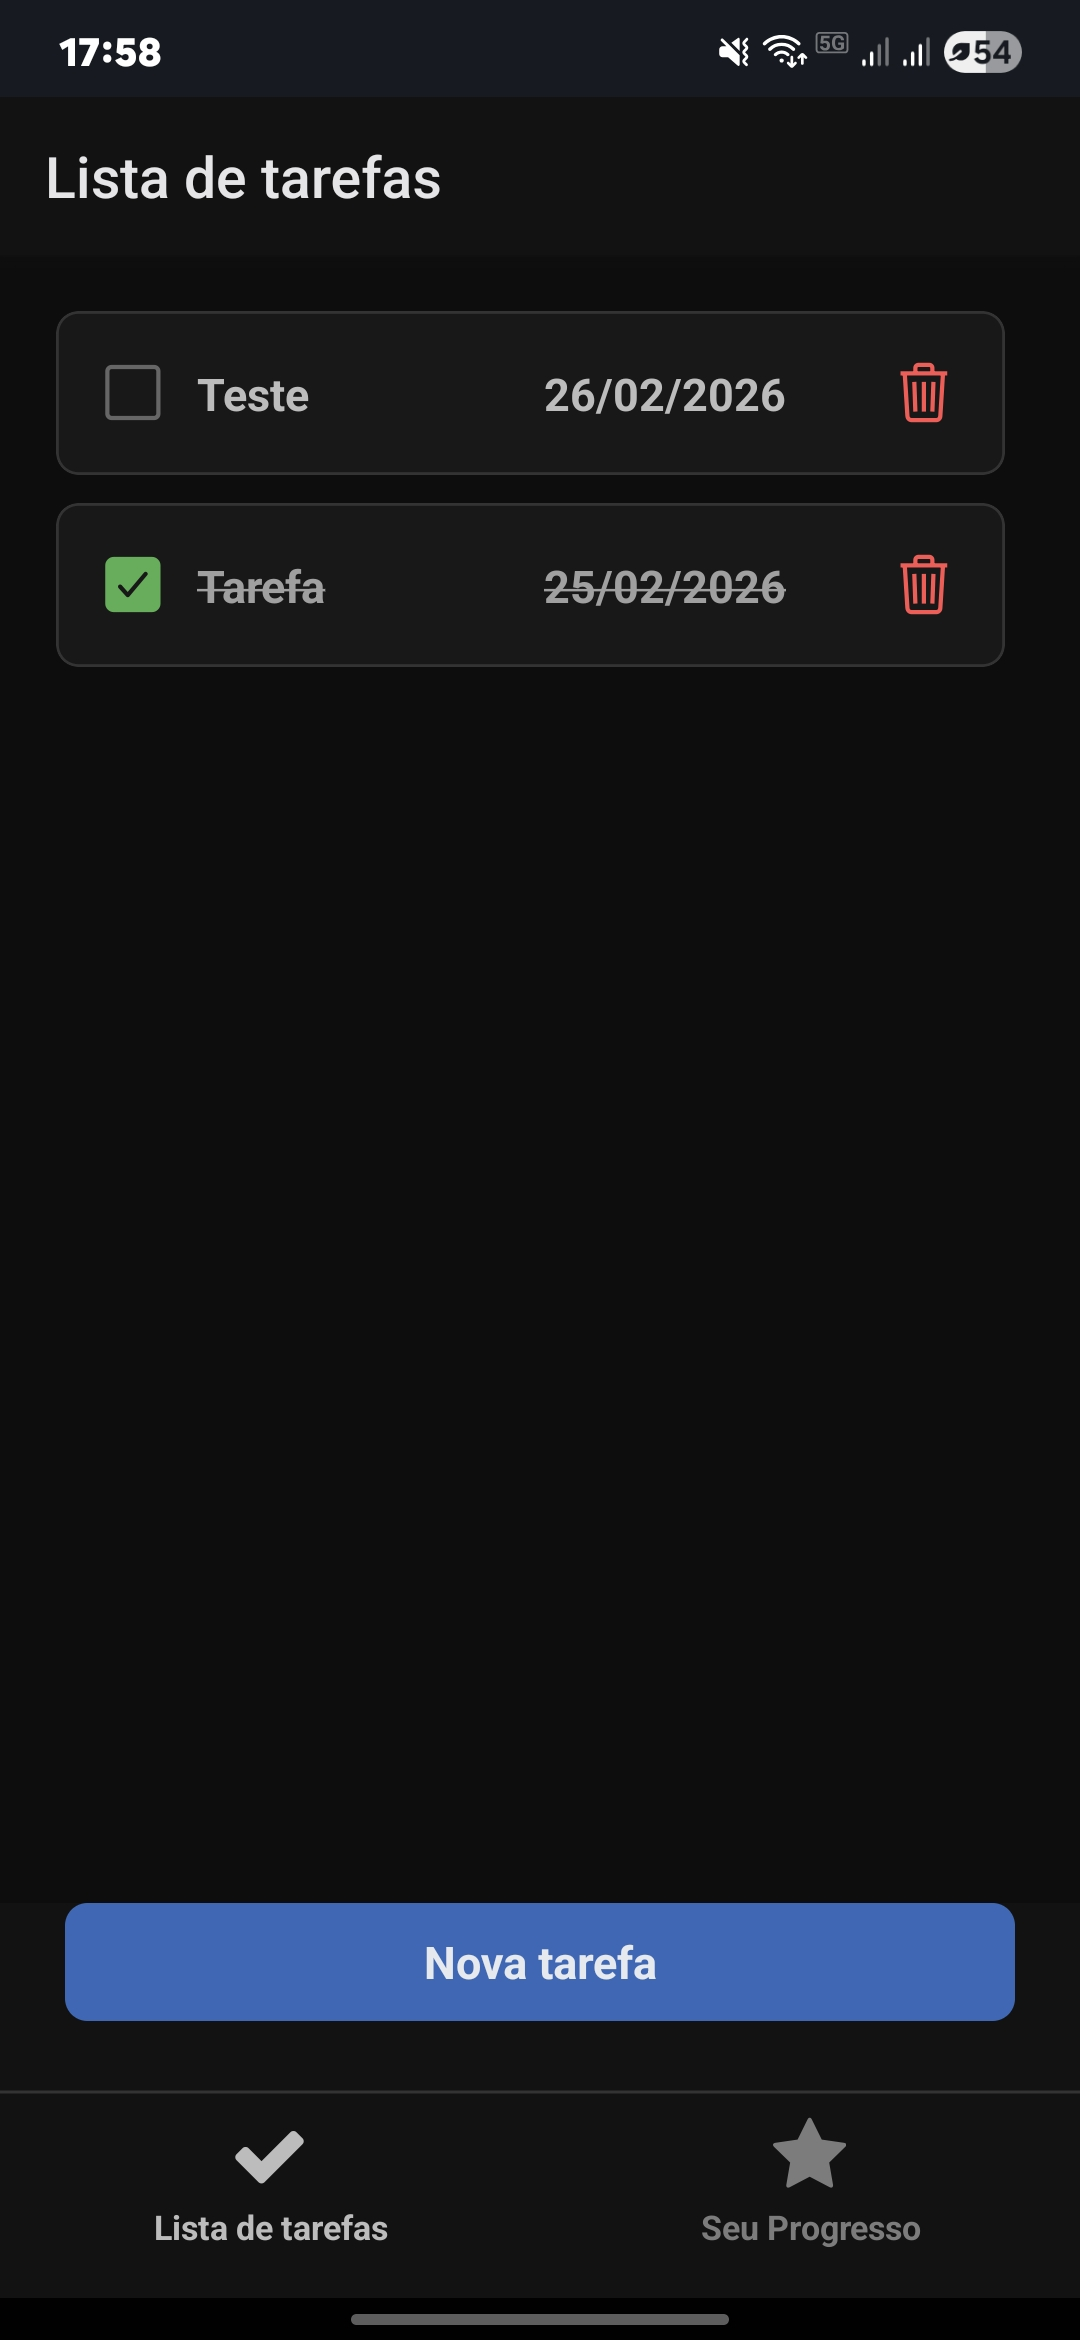
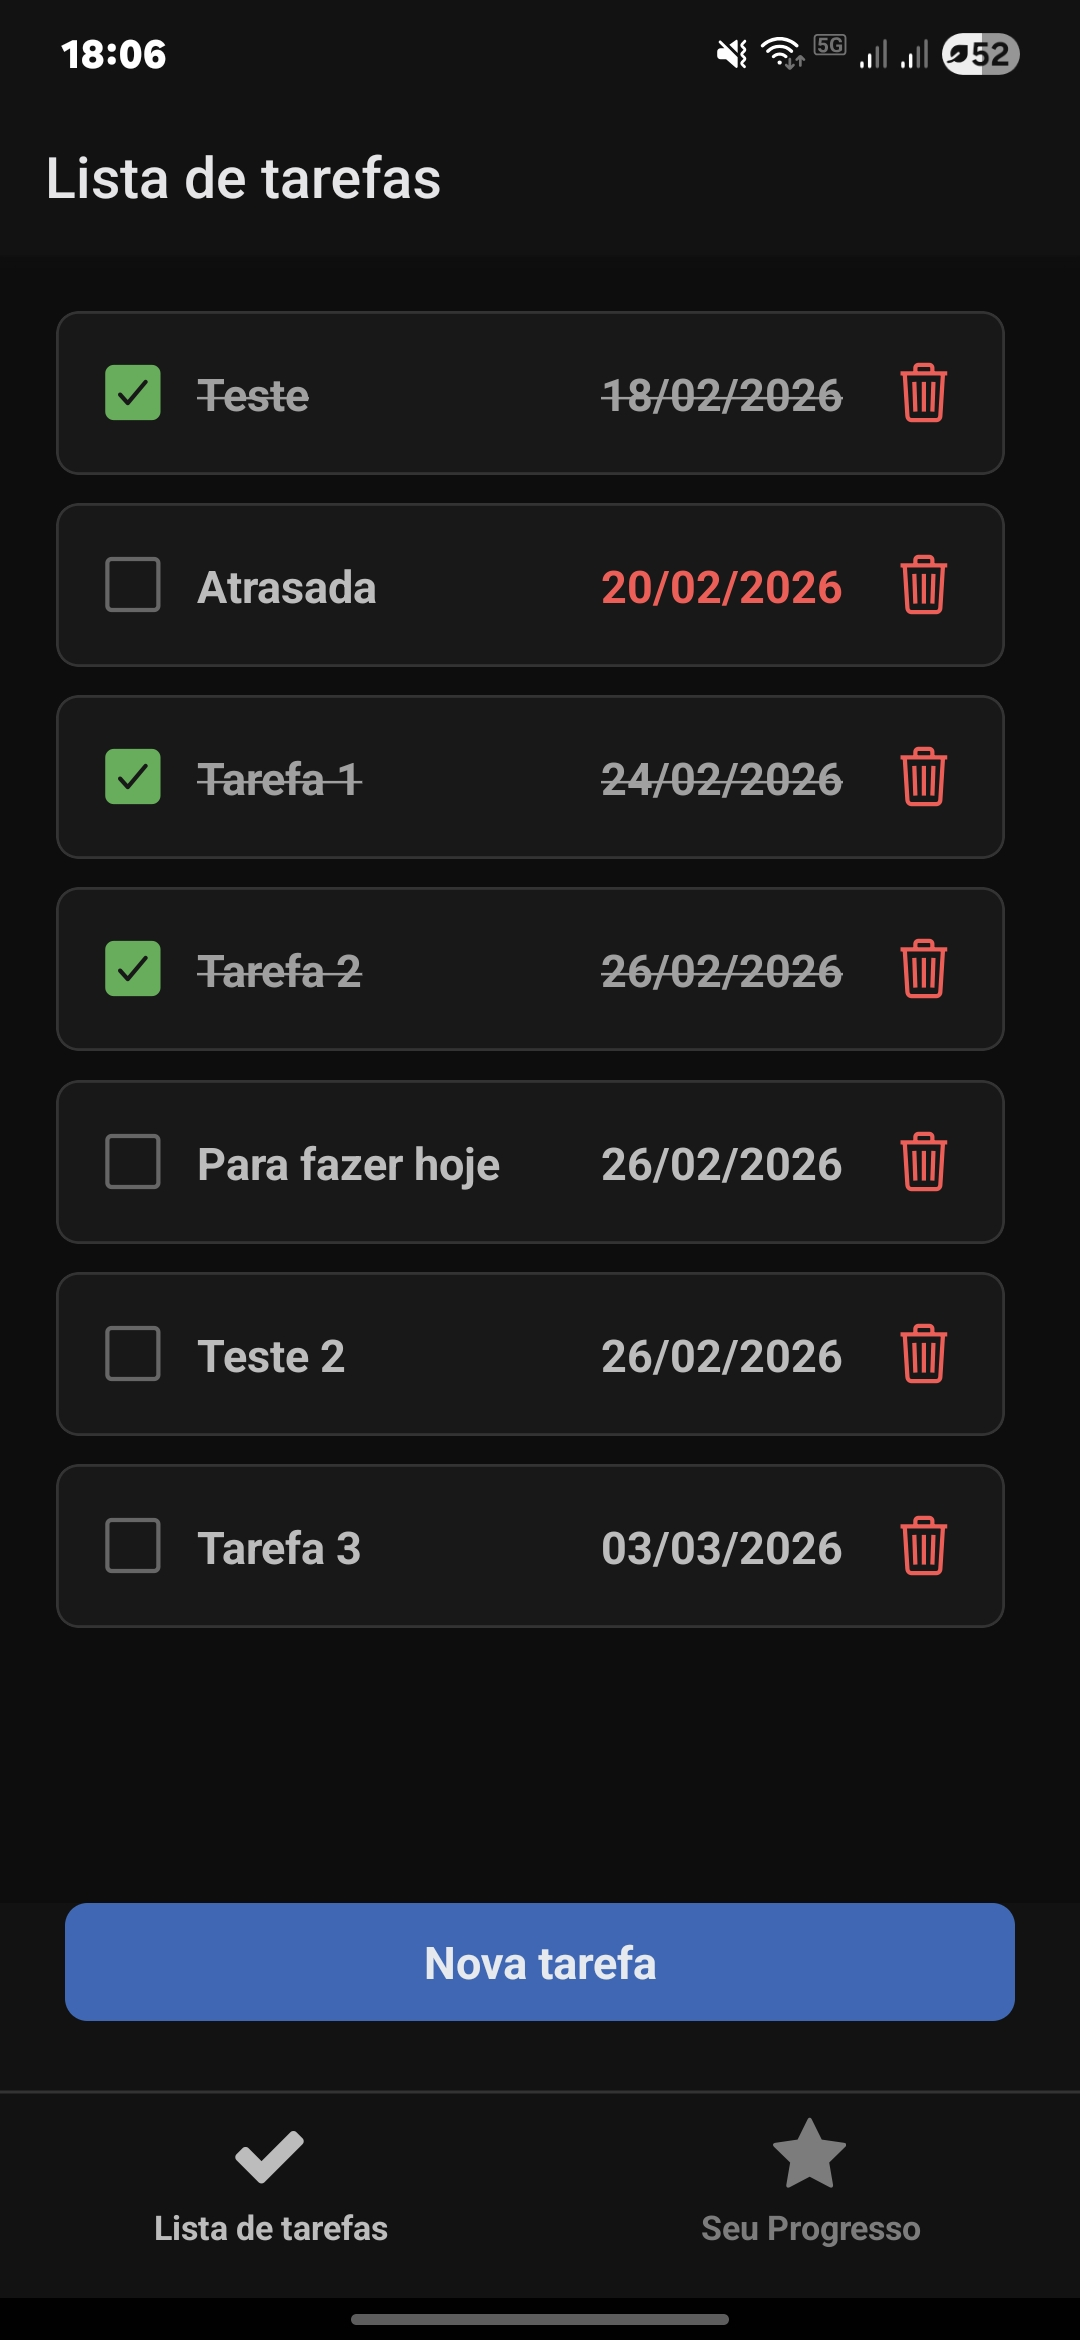
Ordem da lista + Controle de tarefas atrasadas e para hoje

diff --git a/app/(tabs)/progresso.tsx b/app/(tabs)/progresso.tsx
@@ -1,4 +1,4 @@
-import React, { useState, useEffect } from 'react';
+import React, { useState, useEffect, useMemo } from 'react';
 import { View, Text, StyleSheet } from 'react-native';
 import AsyncStorage from '@react-native-async-storage/async-storage';
 import { useIsFocused } from '@react-navigation/native'; 
@@ -6,6 +6,7 @@ import { useIsFocused } from '@react-navigation/native';
 interface Task {
   id: string;
   texto: string;
+  prazo: string;
   concluida: boolean;
 }
 
@@ -30,10 +31,41 @@ export default function SeuProgresso() {
     }
   };
 
-  const total = tasks.length;
-  const concluidas = tasks.filter(t => t.concluida).length;
-  const pendentes = total - concluidas;
-  const porcentagem = total > 0 ? Math.round((concluidas / total) * 100) : 0;
+  const { porcentagem, concluidas, pendentes, atrasadas, paraHoje } = useMemo(() => {
+    const hoje = new Date();
+    hoje.setHours(0, 0, 0, 0);
+    const hojeTimestamp = hoje.getTime();
+
+    const total = tasks.length;
+    if (total === 0) {
+      return { porcentagem: 0, concluidas: 0, pendentes: 0, atrasadas: 0, paraHoje: 0 };
+    }
+
+    const concluidasCount = tasks.filter(t => t.concluida).length;
+
+    const stats = tasks.reduce((acc, task) => {
+      if (!task.concluida) {
+        const [dia, mes, ano] = task.prazo.split('/');
+        const prazo = new Date(Number(ano), Number(mes) - 1, Number(dia));
+        const prazoTimestamp = prazo.getTime();
+
+        if (prazoTimestamp < hojeTimestamp) {
+          acc.atrasadas++;
+        } else if (prazoTimestamp === hojeTimestamp) {
+          acc.paraHoje++;
+        }
+      }
+      return acc;
+    }, { atrasadas: 0, paraHoje: 0 });
+
+    return {
+      porcentagem: Math.round((concluidasCount / total) * 100),
+      concluidas: concluidasCount,
+      pendentes: total - concluidasCount,
+      atrasadas: stats.atrasadas,
+      paraHoje: stats.paraHoje,
+    };
+  }, [tasks]);
 
   return (
     <View style={styles.container}>
@@ -44,16 +76,29 @@ export default function SeuProgresso() {
       </View>
 
       <View style={styles.row}>
-        <View style={[styles.cardPequeno, { backgroundColor: '#4CAF50' }]}>
+        <View style={[styles.cardPequeno, { backgroundColor: '#2a962d' }]}>
           <Text style={styles.numeroPequeno}>{concluidas}</Text>
           <Text style={styles.labelPequena}>Concluídas </Text>
         </View>
 
-        <View style={[styles.cardPequeno, { backgroundColor: '#FF5252' }]}>
+        <View style={[styles.cardPequeno, { backgroundColor: '#aa1414' }]}>
           <Text style={styles.numeroPequeno}>{pendentes}</Text>
           <Text style={styles.labelPequena}>Pendentes </Text>
         </View>
       </View>
+
+      <View style={[styles.card, { flexDirection: 'row', justifyContent: 'center', alignItems: 'baseline' }]}>
+          <Text style={[
+            styles.numeroPequeno,
+            atrasadas > 0 && styles.atrasadas
+          ]}>{atrasadas}</Text>
+          <Text style={[styles.label, { marginLeft: 15, color: '#bdbdbd'}]}>Atrasadas </Text>
+        </View>
+
+        <View style={[styles.card, { flexDirection: 'row', justifyContent: 'center', alignItems: 'baseline' }]}>
+          <Text style={styles.numeroPequeno}>{paraHoje}</Text>
+          <Text style={[styles.label, { marginLeft: 15, color: '#bdbdbd'}]}>Para hoje </Text>
+        </View>
     </View>
   );
 }
@@ -94,14 +139,18 @@ const styles = StyleSheet.create({
     padding: 20,
     borderRadius: 15,
     alignItems: 'center',
+    marginBottom: 20,
   },
   numeroPequeno: {
     fontSize: 24,
-    color: '#fff',
+    color: '#bdbdbd',
     fontWeight: 'bold',
   },
   labelPequena: {
-    color: '#fff',
+    color: '#bdbdbd',
     opacity: 0.8,
   },
+  atrasadas: {
+    color: '#d12c2c'
+  }
 });

diff --git a/components/Item.tsx b/components/Item.tsx
@@ -14,6 +14,15 @@ interface ItemProps {
 }
 
 export default function Item({ data, onDelete, onToggle }: ItemProps) {
+  const hoje = new Date();
+  hoje.setHours(0, 0, 0, 0);
+
+  const [dia, mes, ano] = data.prazo.split('/');
+  const prazo = new Date(`${ano}-${mes}-${dia}T12:00:00`);
+  prazo.setHours(0, 0, 0, 0);
+
+  //console.log(`Texto: ${data.texto} | Prazo: ${prazo} | Prazo: ${hoje}`);
+
   return (
     <View style={styles.container}>
       <TouchableOpacity 
@@ -34,7 +43,9 @@ export default function Item({ data, onDelete, onToggle }: ItemProps) {
         </Text>
         <Text style={[
           styles.text, 
-          data.concluida && styles.textConcluido
+          data.concluida && styles.textConcluido,
+          {marginRight: -40},
+          prazo < hoje && !data.concluida && styles.atrasado
         ]}>
           {data.prazo}
         </Text>
@@ -44,6 +55,7 @@ export default function Item({ data, onDelete, onToggle }: ItemProps) {
         <Ionicons name="trash-outline" size={24} color="#FF5252" />
       </TouchableOpacity>
     </View>
+    
   );
 }
 
@@ -76,5 +88,8 @@ const styles = StyleSheet.create({
   textConcluido: {
     textDecorationLine: 'line-through',
     color: '#A0A0A0',
+  },
+  atrasado: {
+    color: '#FF5252',
   }
 });

diff --git a/components/Lista.tsx b/components/Lista.tsx
@@ -1,4 +1,4 @@
-import React from "react";
+import React, { useMemo } from "react";
 import { FlatList, StyleSheet, View, Text } from 'react-native';
 import Item from "./Item";
 
@@ -16,9 +16,19 @@ interface ListaProps {
 }
 
 export default function Lista({ tarefas, onDelete, onToggle }: ListaProps) {
+ const listaOrdenada = useMemo(() => { //useMemo garante que a função só seja executada novamente se uma das dependências for alterada.
+  return [...tarefas].sort((a, b) => {
+    const converter = (dataStr: string) => {
+      const [dia, mes, ano] = dataStr.split('/');
+      return new Date(`${ano}-${mes}-${dia}`).getTime();
+    };
+    return converter(a.prazo) - converter(b.prazo);
+  });
+}, [tarefas]);
+  //console.log(listaOrdenada);
   return (
     <FlatList
-      data={tarefas}
+      data={listaOrdenada}
       keyExtractor={(item) => item.id}
       renderItem={({ item }) => (
         <Item 
